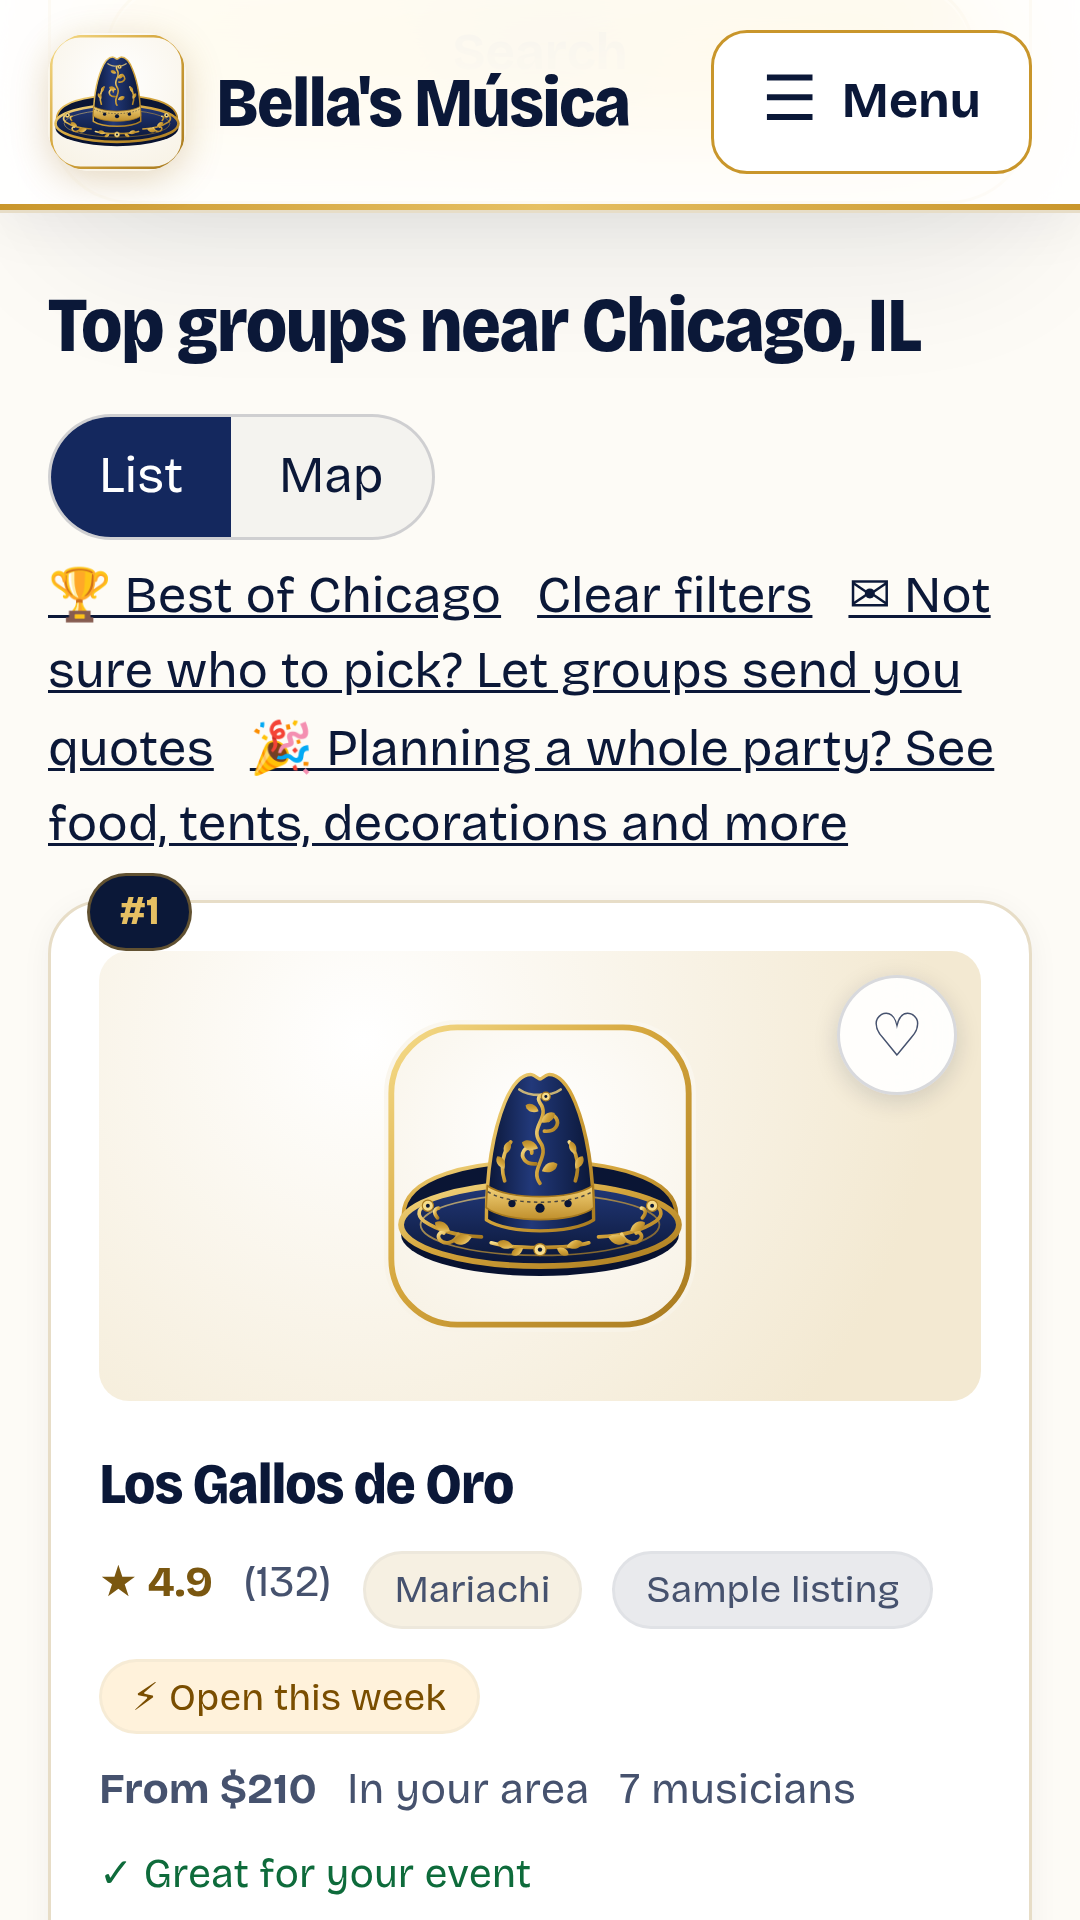
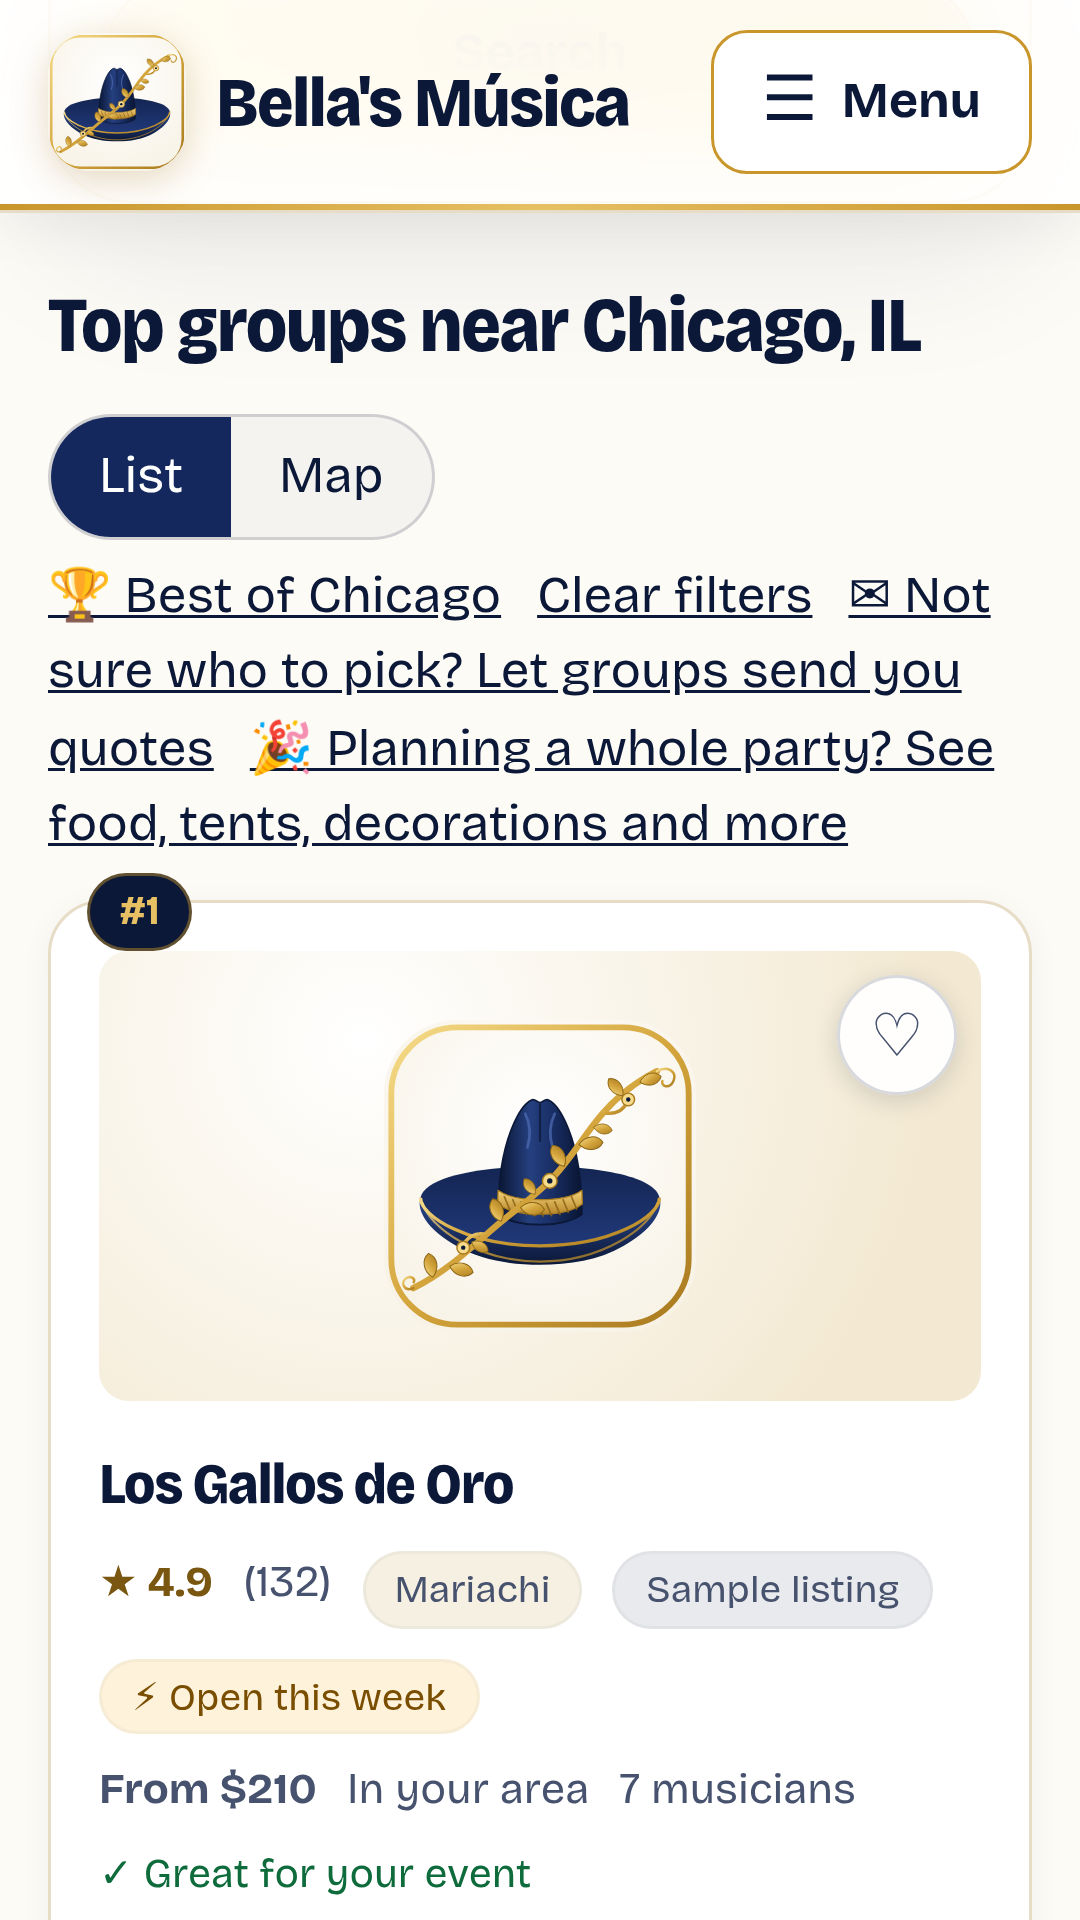
One of something reads as one: "1 review", "1 musician", "1 day"
A "<key>One" string is used when n is 1 (both languages); singular forms for reviews, musicians, groups, days, times
open, guests and people invited. Store screenshots retaken with the new look and the new hat.

Claude-Session: https://claude.ai/code/session_01MtezFpKX2g2dnUWmedPSfh

Changed region(s): [[0.3667, 0.5625, 0.6417, 0.6875], [0.0306, 0.0312, 0.1833, 0.0938]]

diff --git a/bellas-musica/public/js/i18n-look.js b/bellas-musica/public/js/i18n-look.js
@@ -12,7 +12,8 @@ export const EN6 = {
   "hero.services": "Help, so you can enjoy your party", "heroSub.services": "Security, bartenders, MCs, choreographers, hair and makeup. See who's free on your date.",
   "hero.venues": "The perfect place to celebrate", "heroSub.venues": "Party halls and outdoor spaces near you. See who's free on your date.",
   "show.checkedInVendor": "Checked in at the party",
-  "g.editPage": "Edit your page", "pub.basics": "Name, type and ZIP code", "pub.done": "done",
+  "g.reviewsOne": "{n} review", "land.live.reviewsOne": "{n} review", "card.membersOne": "{n} musician", "fav.countOne": "{n} group", "rq.sentOne": "Sent to {n} group. Replies will show here.",
+  "pl.daysNOne": "{n} day", "sp.inDaysOne": "in {n} day", "sp.openOne": "{n} time open ({from} – {to})", "dash.guestsOne": "{n} guest", "g.uptoOne": "up to {n} guest", "gl.invitedOne": "{n} person invited", "g.editPage": "Edit your page", "pub.basics": "Name, type and ZIP code", "pub.done": "done",
   "side.find": "Find and plan", "side.mine": "My party", "side.biz": "For businesses", "side.you": "You", "side.bigText": "Bigger text",
   "card.spotlight": "Spotlight", "spot.strip": "In the spotlight", "spot.paid": "Promoted",
   "seen.title": "Get seen more", "seen.text": "Pay for a better spot and more families see you first. Both last 30 days and add to any time you have left. Paid spots are always labelled.",
@@ -34,7 +35,8 @@ export const ES6 = {
   "hero.services": "Ayuda, para que disfrutes tu fiesta", "heroSub.services": "Seguridad, bartenders, animadores, coreógrafos, peinado y maquillaje. Mira quién está libre en tu fecha.",
   "hero.venues": "El lugar perfecto para celebrar", "heroSub.venues": "Salones de fiesta y espacios al aire libre cerca de ti. Mira quién está libre en tu fecha.",
   "show.checkedInVendor": "Llegada registrada en la fiesta",
-  "g.editPage": "Editar tu página", "pub.basics": "Nombre, tipo y código postal", "pub.done": "listo",
+  "g.reviewsOne": "{n} reseña", "land.live.reviewsOne": "{n} reseña", "card.membersOne": "{n} músico", "fav.countOne": "{n} grupo", "rq.sentOne": "Enviado a {n} grupo. Las respuestas aparecerán aquí.",
+  "pl.daysNOne": "{n} día", "sp.inDaysOne": "en {n} día", "sp.openOne": "{n} horario libre ({from} – {to})", "dash.guestsOne": "{n} invitado", "g.uptoOne": "hasta {n} invitado", "gl.invitedOne": "{n} persona invitada", "g.editPage": "Editar tu página", "pub.basics": "Nombre, tipo y código postal", "pub.done": "listo",
   "side.find": "Buscar y planear", "side.mine": "Mi fiesta", "side.biz": "Para negocios", "side.you": "Tú", "side.bigText": "Letra más grande",
   "card.spotlight": "En la mira", "spot.strip": "En la mira", "spot.paid": "Promocionado",
   "seen.title": "Que te vean más", "seen.text": "Paga por un mejor lugar y más familias te ven primero. Los dos duran 30 días y se suman al tiempo que te quede. Los lugares pagados siempre van marcados.",

diff --git a/bellas-musica/test/i18n.test.js b/bellas-musica/test/i18n.test.js
@@ -65,3 +65,11 @@ test("{who} follows the screen on show: a screen the user already left can't cha
   assert.match(t("show.groupReport", { note: "they said {whos} and {who}" }), /they said \{whos\} and \{who\}/);
   newScreen();
 });
+
+test("one of something reads as one: '1 review', '1 musician', '1 day', in both languages", () => {
+  newScreen();
+  assert.equal(t("g.reviews", { n: 1 }), "1 review"); assert.equal(t("g.reviews", { n: 2 }), "2 reviews");
+  assert.equal(t("card.members", { n: 1 }), "1 musician"); assert.equal(t("pl.daysN", { n: 1 }), "1 day");
+  for (const lang of ["en", "es"]) for (const k of Object.keys(DICT[lang])) if (k.endsWith("One") && DICT[lang][k.slice(0, -3)] !== undefined)
+    assert.ok(!/\{n\}/.test(DICT[lang][k.slice(0, -3)]) || /\{n\}|^1 /.test(DICT[lang][k]) || k === "gl.copyOne", `${lang} ${k} should be the singular of ${k.slice(0, -3)}`);
+});

diff --git a/bellas-musica/public/js/i18n.js b/bellas-musica/public/js/i18n.js
@@ -200,6 +200,8 @@ export const newScreen = () => { WHO = "music"; return ++SCREEN; };
 export const currentScreen = () => SCREEN;
 export const setWho = (category, screen = SCREEN) => { if (screen === SCREEN) WHO = DICT.en["who." + category] ? category : "music"; };
 export function t(key, vars) {
+  // one of something: a "<key>One" string, when there is one ("1 review", not "1 reviews")
+  if (vars && vars.n === 1 && (DICT[current][key + "One"] ?? EN[key + "One"]) !== undefined) key += "One";
   let s = DICT[current][key] ?? EN[key];
   if (s === undefined) { console.warn("missing translation:", key); return key; }
   // the listing's name goes in first, so text people typed (passed in vars) is never changed
